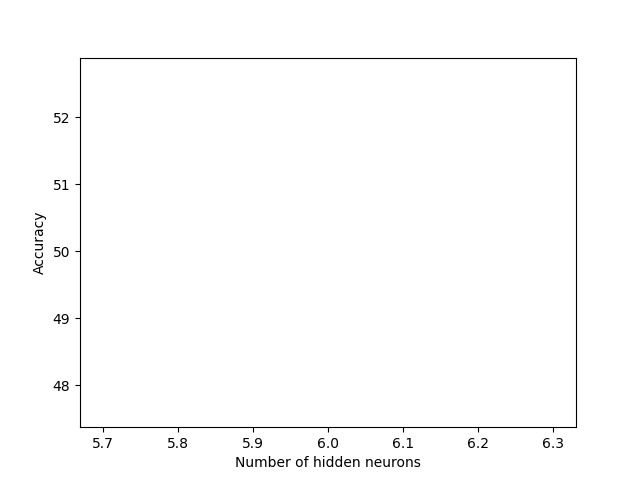
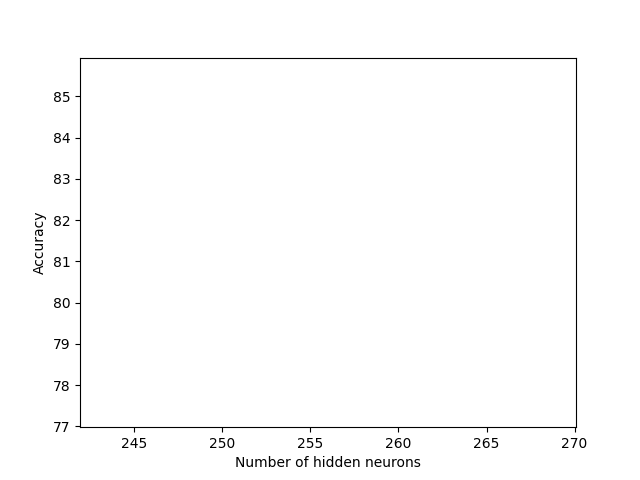
much better performance of NN

diff --git a/algorithms.py b/algorithms.py
@@ -3,8 +3,7 @@ import utilities as utils
 from collections import Counter
 from math import log10 as log
 from sklearn.model_selection import train_test_split
-from tqdm import trange 
-import sklearn.preprocessing as preprocessing
+import random
 
 # http://aimotion.blogspot.com/2011/11/machine-learning-with-python-logistic.html
 class Classifier:
@@ -263,73 +262,70 @@ class LogitReg(Classifier):
     	# When you write your own minimizers, you will also return a gradient here
         return J[0]#,grad
 
-class Dense():
-  def __init__(self, weights, biases, learning_rate):
-    self.learning_rate = learning_rate
-    self.weights = weights
-    self.biases = biases
-      
-  def forward(self,input):
-    a = np.dot(input, self.weights)
-    return a + self.biases
-    
-  def backward(self,input,grad_output,itr,total_iterations):
-    grad_input = np.dot(grad_output,np.transpose(self.weights))
-    grad_weights = np.transpose(np.dot(np.transpose(grad_output),input))
-    grad_biases = np.sum(grad_output, axis = 0) 
-
-    annealling_factor = (1/(1+itr/total_iterations))
-    annealling_factor = 1 # comment this to use learning rate annealing
-    self.weights = self.weights + (self.learning_rate * annealling_factor * grad_weights * 1/input.shape[0])
-    self.biases = self.biases + (self.learning_rate * grad_biases * 1/input.shape[0])
-    return grad_input
-
-
 class NeuralNet(Classifier):
-    def __init__(self, dataset, params, learning_rate, num_iterations, batch_size, lambda_reg):
-        # Number of input, hidden, and output nodes
-        # Hard-coding sigmoid transfer for this test
-        self.dataset = dataset
-        self.ni = params['ni']
-        self.nh = params['nh']
-        self.no = params['no']
-        self.transfer = utils.sigmoid
-        self.dtransfer = utils.dsigmoid
-        self.learning_rate = learning_rate
-        self.num_iterations = num_iterations
-        self.batch_size = batch_size
-        self.lambda_reg = lambda_reg
+    def __init__(self, dataset, params, learning_rate, num_iterations, batch_size, lambda_reg, lr_annealing, regularization):
+      # Number of input, hidden, and output nodes
+      # Hard-coding sigmoid transfer for this test
+      self.dataset = dataset
+      self.ni = params['ni']
+      self.nh = params['nh']
+      self.no = params['no']
+      self.transfer = utils.sigmoid
+      self.dtransfer = utils.dsigmoid
+      self.learning_rate = learning_rate
+      self.num_iterations = num_iterations
+      self.batch_size = batch_size
+      self.lambda_reg = lambda_reg
+      self.lr_annealing = lr_annealing
+      self.regularization = regularization
+      self.initialize_network()
 
-        # Create random {0,1} weights to define features
-        self.wi = np.random.random((self.ni, self.nh))
-        self.wo = np.random.random((self.nh, self.no))
-        self.bi = np.zeros(self.nh)
-        self.bo = np.zeros(self.no)
+    def initialize_network(self):
+      self.network = []
+      self.wi = np.random.random((self.ni, self.nh))
+      self.wo = np.random.random((self.nh, self.no))
+      self.bi = np.zeros(self.nh)
+      self.bo = np.zeros(self.no)
+      hidden_layer = {'W':self.wi, 'B':self.bi}
+      self.network.append(hidden_layer)
+      output_layer = {'W':self.wo, 'B':self.bo}
+      self.network.append(output_layer)
 
-        self.network = []
-        self.network.append(Dense(self.wi, self.bi, self.learning_rate))
-        self.network.append(Dense(self.wo, self.bo, self.learning_rate))
+    def activate(self, layer, input):
+      return np.dot(input, layer['W']) + layer['B']
 
-    def helper(self, Xtrain):
+    def forward_propagation(self, input):
       activations = []
+      for layer in self.network:
+          result = self.transfer(self.activate(layer, input))
+          layer['O'] = result
+          activations.append(result)
+          input = result
+      return input
+
+    def evaluate(self, ytrain):
+      reg_term = 0
+      for i in reversed(range(len(self.network))):
+        error = []
+        if self.regularization == True:
+          reg_term = 0.5 * self.lambda_reg * np.sum(np.square(self.network[i]['W']))
+        if (i == len(self.network)-1):
+          e = self.network[i]['O'] - ytrain + reg_term
+        else:
+          e = np.dot(self.network[i+1]['DW'],self.network[i+1]['W'].T) + reg_term
+        error.append(e)
+        self.network[i]['DW'] = e * self.dtransfer(self.network[i]['O'])
+        self.network[i]['DB'] = np.sum(e, axis=0)
+
+    def weight_update(self, input, itr):
+      annealling_factor = 1
       for i in range(len(self.network)):
-          activations.append(self.transfer(self.network[i].forward(Xtrain)))
-          Xtrain = self.transfer(self.network[i].forward(Xtrain))
-      return activations
-
-    def evaluate(self, Xtrain, ytrain, itr):
-      # Forward propagations
-      activations = self.helper(Xtrain)
-
-      # Backpropagation
-      last_layer = activations[-1]
-      reg_term = 0.5*self.lambda_reg*np.sum(np.square(self.wo))
-      reg_term = 0 #comment this to use regularization
-      loss = utils.cross_entropy(last_layer, ytrain) + reg_term 
-      loss_grad = self.dtransfer(last_layer)
-      for i in range(1, len(self.network)):
-          loss_grad = self.network[len(self.network) - i].backward(activations[len(self.network) - i - 1], loss*loss_grad, itr, self.num_iterations)
-      return loss
+        if (i!=0):
+          input = self.network[i-1]['O']
+        if self.lr_annealing == True:
+          annealling_factor = (1/(1+(itr/self.num_iterations)))
+        self.network[i]['W'] -= self.learning_rate * annealling_factor * np.dot(input.T,self.network[i]['DW'])
+        # self.network[i]['B'] -= self.learning_rate * self.network[i]['DB']
 
     def make_batches(self, X, y):
       batches = []
@@ -353,24 +349,24 @@ class NeuralNet(Classifier):
       val_log = []
       for epoch in range(self.num_iterations):
           Xtrain, Xval, ytrain, yval = train_test_split(X, y, test_size=0.2)
-          tot_loss = 0
           for x,y_class in self.make_batches(Xtrain,ytrain):
-              loss = self.evaluate(x,y_class,epoch)
-              tot_loss += loss
+              output = self.forward_propagation(x)
+              self.evaluate(y_class)
+              self.weight_update(x, epoch)
           
           train_log.append(np.mean(self.predict(Xtrain)==ytrain.argmax(axis = 1)))
-          val_log.append(np.mean(self.predict(Xval)==yval))
+          val_log.append(np.mean(self.predict(Xval)==yval.argmax(axis = 1)))
           
-          # print("Epoch",epoch," Train loss:",tot_loss)
-          # print("Train accuracy:",train_log[-1])
-          # print("Val accuracy:",val_log[-1])
+          print("Epoch",epoch)
+          print("Train accuracy:",train_log[-1])
+          print("Val accuracy:",val_log[-1])
             
-    def predict(self,Xtrain):
+    def predict(self,X):
       try:
-        Xtrain = Xtrain.toarray()
-        logits = self.helper(Xtrain)[-1]
+        X = X.toarray()
+        logits = self.forward_propagation(X)
       except:
-        logits = self.helper(Xtrain)[-1]
+        logits = self.forward_propagation(X)
       return logits.argmax(axis=-1)
     
     

diff --git a/script_classify.py b/script_classify.py
@@ -120,10 +120,30 @@ def getaccuracy(ytest, predictions):
 def plot(accuracy, hidden, title):
   plt.figure()
   plt.plot(hidden, accuracy)
-  plt.legend()
   plt.xlabel("Hidden Units")
   plt.ylabel("Accuracy")
   plt.savefig(f'experiment_{title}.png')
+
+def normalize_dataset(trainset, testset):
+  maximums = np.amax(trainset[0], axis = 0)
+  minimums = np.amin(trainset[0], axis = 0)
+  diff = maximums - minimums
+  trainset_n = (trainset[0]-minimums)/diff
+  testset_n = (testset[0]-minimums)/diff
+  return (trainset_n,trainset[1]), (testset_n,testset[1])
+
+def downsample_dataset(trainset):
+  x = np.unique(trainset[1], return_counts = True)
+  min_count = np.min(x[1])
+  class_0 = np.where(trainset[1]==0)
+  class_1 = np.where(trainset[1]==1)
+  idx_0 = random.sample(list(class_0[0]), min_count)
+  idx_1 = random.sample(list(class_1[0]), min_count)
+  idx = idx_0 + idx_1
+  new_set = (trainset[0][idx], trainset[1][idx])
+  return new_set
+
+
 
 if __name__ == '__main__':
 
@@ -134,7 +154,10 @@ if __name__ == '__main__':
     if filename == 'disease.csv':
       splitratio = 0.8
       dataset = loadcsv(filename)
-      trainset, testset = splitdataset(dataset, splitratio)
+      trainset_u, testset_u = splitdataset(dataset, splitratio)
+      trainset_n, testset_n = normalize_dataset(trainset_u, testset_u)
+      trainset = downsample_dataset(trainset_n)
+      testset = downsample_dataset(testset_n)
       print(f'Split {len(dataset)} rows into train={trainset[0].shape[0]} and test={testset[0].shape[0]} rows.')
       hn_list = [64] #[8,16,32,64,128,256]
       acc_list = []
@@ -145,7 +168,7 @@ if __name__ == '__main__':
                     # 'Random': algs.Classifier(),
                     # 'Naive Bayes': algs.NaiveBayes('disease'),
                     # 'Logistic Regression': algs.LogitReg(dataset='disease',learning_rate =.01, num_iterations = 100, run_stochastic=False),
-                    'Neural Network': algs.NeuralNet(dataset='disease', params = params_NN, learning_rate = 0.01, num_iterations = 50, batch_size = 8, lambda_reg = 0.001)
+                    'Neural Network': algs.NeuralNet(dataset='disease', params = params_NN, learning_rate = 0.01, num_iterations = 30, batch_size = 4, lambda_reg = 0.001, lr_annealing = True, regularization = True)
                     }
         for learnername, learner in classalgs.items():
           print('Running learner = ' + learnername)
@@ -155,10 +178,8 @@ if __name__ == '__main__':
           accuracy = getaccuracy(testset[1], predictions)
           print('Accuracy for ' + learnername + ': ' + str(accuracy))
           acc_list.append(accuracy)
-      plt.plot(hn_list, acc_list)
-      plt.xlabel("Number of hidden neurons")
-      plt.ylabel("Accuracy")
-      plt.savefig("Disease.png")
+      plot(acc_list,hn_list,filename)
+      
 
     elif filename == 'IMDB_Dataset.csv':
       dataset = loadIMDB(filename)
@@ -172,7 +193,7 @@ if __name__ == '__main__':
                     # 'Random': algs.Classifier(),
                     # 'Naive Bayes': algs.NaiveBayes('IMDB', class_0, class_1),
                     # 'Logistic Regression': algs.LogitReg(dataset='IMDB', learning_rate=.01, num_iterations=10, run_stochastic=True),
-                    'Neural Network': algs.NeuralNet(dataset='IMDB',  params = params_NN, learning_rate = 0.01, num_iterations = 150, batch_size = 8, lambda_reg = 0.001)
+                    'Neural Network': algs.NeuralNet(dataset='IMDB',  params = params_NN, learning_rate = 0.01, num_iterations = 20, batch_size = 4, lambda_reg = 0.001, lr_annealing = True, regularization = True)
                     }
         for learnername, learner in classalgs.items():
           print('Running learner = ' + learnername)
@@ -182,7 +203,4 @@ if __name__ == '__main__':
           accuracy = getaccuracy(testset[1], predictions)
           print('Accuracy for ' + learnername + ': ' + str(accuracy))
           acc_list.append(accuracy)
-      plt.plot(hn_list, acc_list)
-      plt.xlabel("Number of hidden neurons")
-      plt.ylabel("Accuracy")
-      plt.savefig("Disease.png")
+      plot(acc_list,hn_list,filename)
